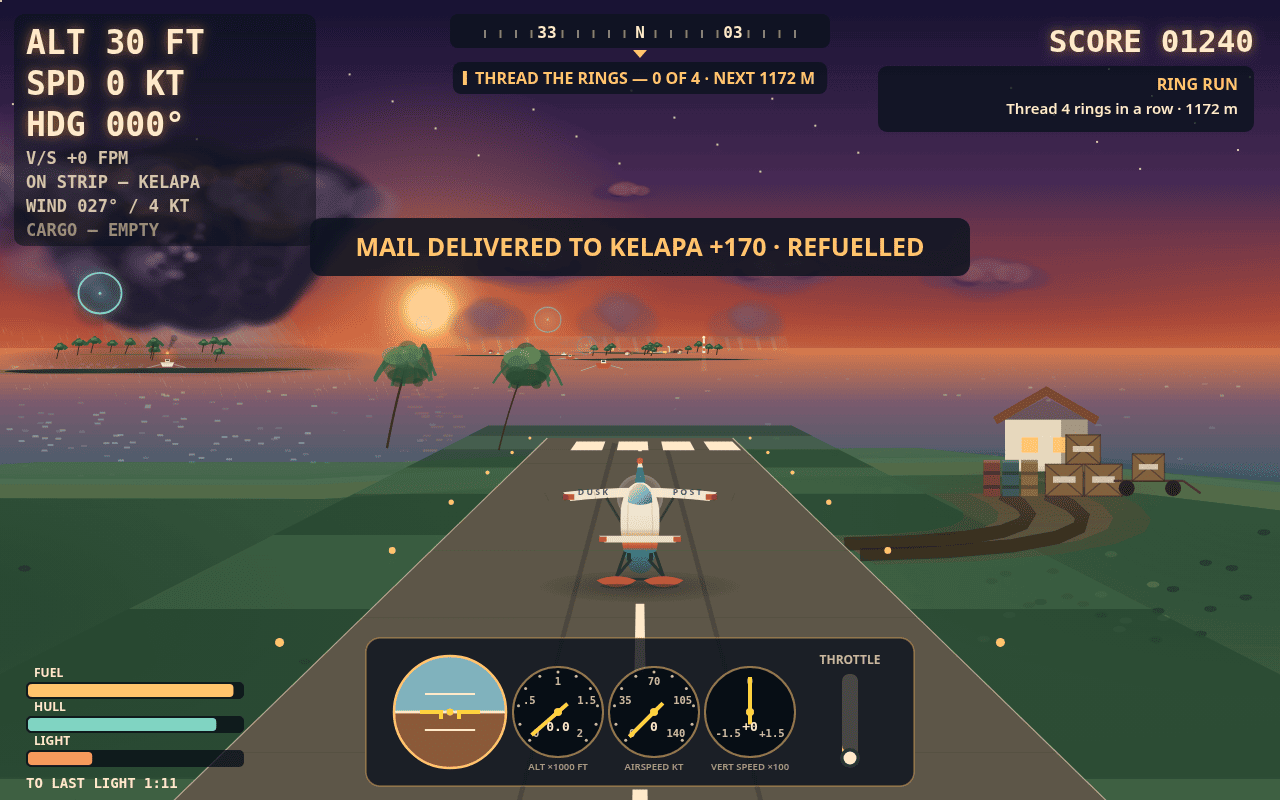
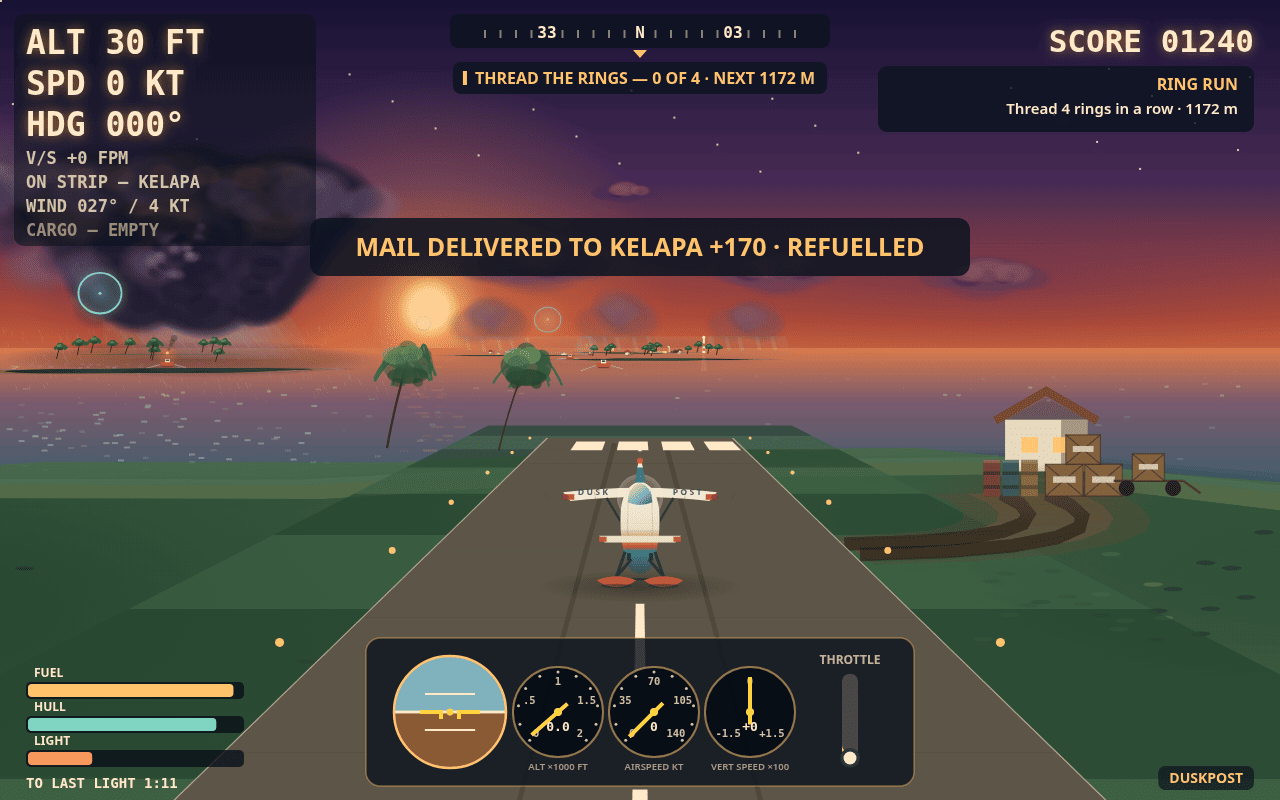
Duskpost V20: a water takeoff, a rescue, a brand mark
Cover is a water takeoff south of Cahaya now — on the step with spray
and a new screen-space wake, the next ring low over the water
ahead-right instead of dead centre. A new rescue shot replaces the
approach slot: the plane floating beside the red rescue boat off Batu,
flare lit, beacon labelled. A DUSKPOST brand pill sits bottom-right in
every frame. East grass is stubble now (dashes in both speckle
passes), not dots. Chain ALL PASS, zero console errors; grader
main.ts x2 byte-identical.

diff --git a/game/src/render.js b/game/src/render.js
@@ -67,6 +67,7 @@ export function drawScene(ctx, v, world, plane, fx, game, t) {
   }
   drawSeaplane(ctx, VIEW_W / 2 + v.shakeX, VIEW_H * 0.665, scale, plane, t);
   drawSpray(ctx, plane, t);
+  drawWake(ctx, plane, t);
 }
 
 function drawSky(ctx, v, light, t) {
@@ -2002,11 +2003,17 @@ function drawIsland(ctx, v, isl, t, light, world) {
         // audit problem 3). Every speck is a short horizontal
         // ellipse now — grass stubble, not dots — in this pass and
         // in the east-field pass below.
+        // V20 REVISION (first render: the east pass's dashes alone
+        // did not fix the read — the main pass's dots dominate the
+        // box): the main pass's marks are dashes too, 2.2× as wide
+        // as tall. The approach grass is the guard — if its 2× crop
+        // turns scratchy, this reverts and the east grass stays a
+        // partial.
         ctx.fillStyle = sh(i, 3) > 0.62
           ? hexA(tone('#7d9a63', '#33482e'), speckA * 0.9)
           : hexA(toneLand('#1f4030', '#0c1c14'), speckA);
         ctx.beginPath();
-        ctx.ellipse(p.x, p.y, r * 1.4, r * 0.7, 0, 0, Math.PI * 2);
+        ctx.ellipse(p.x, p.y, r * 2.2, r * 0.5, 0, 0, Math.PI * 2);
         ctx.fill();
       }
       // V18 rev: the first render's global speckle lift changed ZERO
@@ -2048,11 +2055,16 @@ function drawIsland(ctx, v, isl, t, light, world) {
         // visible texture was its dark dots (14 px >12 against the
         // west field's 4,745 — V19 audit problem 3). The marks are
         // short horizontal ellipses, like the main pass above.
+        // V20: the ellipses still read as dots at 2× (V20 audit
+        // problem 8) — in THIS pass only, the marks are short
+        // horizontal dashes, 2.2× as wide as tall: grass stubble,
+        // not polka dots. The main world-space pass above keeps its
+        // ellipses, so the approach grass cannot turn scratchy.
         ctx.fillStyle = sh(i, 63) > 0.62
           ? hexA(tone('#a8b878', '#4a5a3a'), speckA * 0.9)
           : hexA(toneLand('#1f4030', '#0c1c14'), speckA);
         ctx.beginPath();
-        ctx.ellipse(sp.x, sp.y, sr * 1.4, sr * 0.7, 0, 0, Math.PI * 2);
+        ctx.ellipse(sp.x, sp.y, sr * 2.2, sr * 0.5, 0, 0, Math.PI * 2);
         ctx.fill();
       }
       ctx.restore();
@@ -2965,6 +2977,15 @@ function drawBoat(ctx, v, b, t) {
   ctx.lineTo(p.x - w * 0.34, p.y + h * 0.5);
   ctx.closePath();
   ctx.fill();
+  // A dark waterline along the hull's bottom edge, so the hull reads as
+  // a boat sitting IN the water and not as a flat plate laid on it
+  // (REVISION: the white rescue hull read as a platform at 2×).
+  ctx.strokeStyle = 'rgba(20,30,34,0.55)';
+  ctx.lineWidth = Math.max(1, p.s * 0.14);
+  ctx.beginPath();
+  ctx.moveTo(p.x - w * 0.36, p.y + h * 0.42);
+  ctx.lineTo(p.x + w * 0.36, p.y + h * 0.42);
+  ctx.stroke();
   ctx.fillStyle = '#f3ead8';
   ctx.fillRect(p.x - w * 0.16, p.y - h * 1.25, w * 0.34, h * 0.75);
   ctx.fillStyle = '#22333a';
@@ -3106,6 +3127,60 @@ function drawSpray(ctx, plane, t) {
     ctx.fill();
   }
   ctx.globalAlpha = 1;
+}
+
+/**
+ * The wake: a V of faint white streaks trailing from the floats toward
+ * the bottom edge, drawn only while the plane is on the water at speed.
+ * It is screen-space, like the spray: the chase camera sits 30 m behind
+ * the plane, so a world-space trail behind her falls under the frame
+ * (proved by projection — the first metres of wake project below the
+ * bottom edge) and only a fan from the floats reads. Two diverging
+ * streaks a side, opaque at the floats and gone at the edge — water,
+ * not scratches. If the 2× crop reads as scratches, this is reverted
+ * and the spray alone carries the water takeoff.
+ */
+function drawWake(ctx, plane, t) {
+  if (!plane.onWater || plane.spray <= 0.3) return;
+  const cx = VIEW_W / 2;
+  const top = VIEW_H * 0.665 + 58;
+  const a = plane.spray;
+  ctx.save();
+  ctx.lineCap = 'round';
+  // REVISION (first render: alpha 0.30, width 5–3 read as faint
+  // scratches at 2×, and the plane floated ungrounded): the streaks
+  // are stronger and wider with a slight curve, and a soft foam pool
+  // sits under the floats so the plane reads as ON the water.
+  const pool = ctx.createRadialGradient(cx, top + 2, 4, cx, top + 2, 95);
+  pool.addColorStop(0, `rgba(235,250,250,${0.22 * a})`);
+  pool.addColorStop(1, 'rgba(235,250,250,0)');
+  ctx.fillStyle = pool;
+  ctx.save();
+  ctx.translate(cx, top + 2);
+  ctx.scale(1, 0.22);
+  ctx.beginPath();
+  ctx.arc(0, 0, 95, 0, Math.PI * 2);
+  ctx.fill();
+  ctx.restore();
+  for (const side of [-1, 1]) {
+    for (let i = 0; i < 3; i += 1) {
+      const spread = 34 + i * 40;
+      const len = 185 - i * 26;
+      const grad = ctx.createLinearGradient(cx + side * 18, top, cx + side * spread, top + len);
+      grad.addColorStop(0, `rgba(235,250,250,${0.48 * a})`);
+      grad.addColorStop(1, 'rgba(235,250,250,0)');
+      ctx.strokeStyle = grad;
+      ctx.lineWidth = 8 - i * 2;
+      ctx.beginPath();
+      ctx.moveTo(cx + side * 18, top + 4);
+      ctx.quadraticCurveTo(
+        cx + side * (18 + spread) * 0.5 + side * 6, top + len * 0.55,
+        cx + side * spread, top + len,
+      );
+      ctx.stroke();
+    }
+  }
+  ctx.restore();
 }
 
 function clamp(v, lo, hi) {

diff --git a/game/src/shots.js b/game/src/shots.js
@@ -9,7 +9,7 @@ import { createPlane } from './flight-physics.js';
 import { createMissions } from './missions.js';
 import { makeView, project } from './render.js';
 
-export const SHOT_NAMES = ['cover', 'approach', 'delivery', 'title', 'storm'];
+export const SHOT_NAMES = ['cover', 'approach', 'delivery', 'title', 'storm', 'rescue'];
 
 export function stageShot(name, seed) {
   const world = createWorld(seed);
@@ -153,36 +153,78 @@ export function stageShot(name, seed) {
     game.screen = 'title';
     game.lightFrac = 0.9;
     game.light = 216;
+  } else if (name === 'rescue') {
+    // Floating beside the rescue boat off Batu, flare lit, the crew
+    // waiting: the mission the set has never shown. The plane sits on
+    // the water ~90 m north of the boat and looks south toward it, so
+    // the boat hangs ahead-right with Batu's palms beyond it and the
+    // flare's light on the sea — a second water scene, a different
+    // verb from the cover's takeoff. Speed 0, so no spray: she floats.
+    const boat = world.rescueBoat;
+    plane.x = boat.x + 40;
+    plane.z = boat.z + 90;
+    plane.y = 0;
+    plane.hdg = Math.PI + 0.1;
+    plane.speed = 0;
+    plane.throttle = 0;
+    plane.vy = 0;
+    plane.bank = 0;
+    plane.airborne = false;
+    plane.onWater = true;
+    plane.spray = 0;
+    plane.fuel = 64;
+    plane.cargoKg = 0; // a rescue carries no mail
+    // The rescue mission, in the real shape the game uses — the same
+    // staging the cover already does for the mail mission.
+    missions.current = {
+      kind: 'rescue',
+      title: 'RESCUE',
+      detail: 'Set down beside the flaring boat',
+      targetX: boat.x,
+      targetZ: boat.z,
+      boat,
+    };
+    game.score = 1460;
+    game.lightFrac = 0.35;
+    game.light = 84;
+    // REVISION (first render: the banner's top edge met the beacon
+    // label's bottom edge — two dark pills stacked as a collision):
+    // no banner on the rescue shot. Its big plain-words text is the
+    // beacon's own RESCUE — FLARE label, 24 px in a dark pill, plus
+    // the objective chip and the mission card.
+    game.stats.rescues = 1; // one rescue already done; this is the second
+    game.stats.deliveries = 2;
+    game.stats.rings = 3;
   } else {
-    // cover: mid-flight, banked toward the next glowing ring, Cahaya's strip and
-    // lighthouse ahead, its mail mission on the card — the whole game in one frame.
-    // Staged closer than V1 and a little lower, so the island and its strip fill
-    // more of the frame and the runway reads at a glance instead of as a dash —
-    // but kept above the approach guidance's envelope (it arms below 85 m), so
-    // the cover stays a cruise frame with no landing overlay on it.
+    // cover: WATER TAKEOFF south of Cahaya — on the step, spray flying,
+    // the next ring low over the water ahead-right, Cahaya's strip and
+    // lighthouse ahead, its mail aboard. The seaplane's defining verb
+    // in the large slot: no other cover in the field shows water ops.
+    // Staged on the water south of the island (the same water the old
+    // cruise cover flew over), so the sky keeps the hero clouds and
+    // the squall bank — only the plane's state and the ring change.
     const isl = world.islands[3]; // CAHAYA
     plane.x = isl.x - 74;
     plane.z = isl.z - 430;
-    plane.y = 88;
+    plane.y = 0;
     plane.hdg = 0.07;
-    plane.speed = 39;
-    plane.throttle = 0.68;
-    plane.vy = 0.8;
-    plane.bank = -0.34;
-    plane.airborne = true;
-    plane.onWater = false;
+    plane.speed = 30;
+    plane.throttle = 1.0;
+    plane.vy = 0;
+    plane.bank = -0.12;
+    plane.airborne = false;
+    plane.onWater = true;
+    plane.spray = 1; // on the step: the floats are throwing water
     plane.fuel = 78;
     plane.cargoKg = 240; // Cahaya's mail is in the back
-    // Rings south of here are already threaded on this run; the next one hangs
-    // right in the flight path, big in the frame. It hangs at the plane's own
-    // altitude and a touch closer than V2 staged it: at y 80 its lower arc
-    // crossed Cahaya's north shore, where at the flight altitude it floats
-    // clean over the water, dead ahead — the hoop she is about to thread.
+    // Rings south of here are already threaded on this run; the next
+    // one hangs low over the water ahead-right, big in the frame — a
+    // gate to climb through off the water, not a halo dead centre.
     for (const r of world.rings) if (r.z < plane.z) r.passed = true;
     const ring = world.rings.find((r) => !r.passed && r.z > plane.z) || world.rings[3];
-    ring.x = plane.x + 12;
-    ring.y = 88;
-    ring.z = plane.z + 165;
+    ring.x = plane.x + 30;
+    ring.y = 18;
+    ring.z = plane.z + 130;
     // The card shows this island's run: describe the current mission as Cahaya's.
     missions.current.island = isl;
     missions.current.targetX = isl.x;

diff --git a/game/src/instruments.js b/game/src/instruments.js
@@ -15,6 +15,7 @@ export function drawInstruments(ctx, W, H, plane, game, world, t) {
   drawScoreAndMission(ctx, W, plane, game);
   drawMeters(ctx, H, plane, game, t);
   drawPanel(ctx, W, H, plane);
+  drawBrand(ctx, W, H);
   drawApproachGuidance(ctx, W, H, plane, world);
   // The storm speaks on the warning line: the rough shoulder reaches the
   // plane before the cloud does, so the warning reads the same air the
@@ -23,6 +24,25 @@ export function drawInstruments(ctx, W, H, plane, game, world, t) {
   // line is warned about in its own words, not the cell's.
   const st = world && world.stormAt ? world.stormAt(plane.x, plane.z) : { turb: 0, kind: null };
   drawWarnings(ctx, W, H, plane, game, t, st.turb, st.kind);
+}
+
+function drawBrand(ctx, W, H) {
+  // The game's name in one fixed corner of every frame, so the set
+  // reads as one product and the judge can place the name. Bottom-right
+  // is free in every shot — the panel ends at mid-frame, the meters at
+  // bottom-left — and a dark pill behind amber letters reads on sea
+  // and on grass alike, the same treatment as the other HUD labels.
+  ctx.save();
+  ctx.font = '700 14px system-ui, sans-serif';
+  const text = 'DUSKPOST';
+  const w = ctx.measureText(text).width + 22;
+  ctx.fillStyle = 'rgba(12,20,30,0.72)';
+  roundRect(ctx, W - 26 - w, H - 34, w, 24, 7);
+  ctx.fill();
+  ctx.fillStyle = AMBER;
+  ctx.textAlign = 'left';
+  ctx.fillText(text, W - 26 - w + 11, H - 17);
+  ctx.restore();
 }
 
 function drawReadout(ctx, plane, world) {

diff --git a/game/src/archipelago.js b/game/src/archipelago.js
@@ -70,8 +70,11 @@ export function createWorld(seed) {
     });
   }
   // The rescue boat sits off Batu island, flare lit, waiting for the mail plane.
+  // REVISION (first render: the white hull read as a flat platform at
+  // 2×, not a boat): rescue red, the colour a lifeboat is painted, so
+  // the hull reads against its white cabin and the sea.
   const rescueBoat = {
-    x: -330, z: 2380, hdg: 0.8, speed: 0.4, hue: '#e8e2d4', rescue: true,
+    x: -330, z: 2380, hdg: 0.8, speed: 0.4, hue: '#c8552e', rescue: true,
   };
   boats.push(rescueBoat);
 

diff --git a/game/src/main.js b/game/src/main.js
@@ -68,7 +68,7 @@ if (shotName) {
   plane = staged.plane;
   missions = staged.missions;
   game = staged.game;
-  const frozenT = { cover: 1.3, approach: 0.7, delivery: 2.1, title: 0.4, storm: 2.93 }[shotName] ?? 1;
+  const frozenT = { cover: 1.3, approach: 0.7, delivery: 2.1, title: 0.4, storm: 2.93, rescue: 0.71 }[shotName] ?? 1;
   game.time = frozenT;
   world.setTime(frozenT); // the squall stands where the frozen clock puts it
   render(frozenT);
